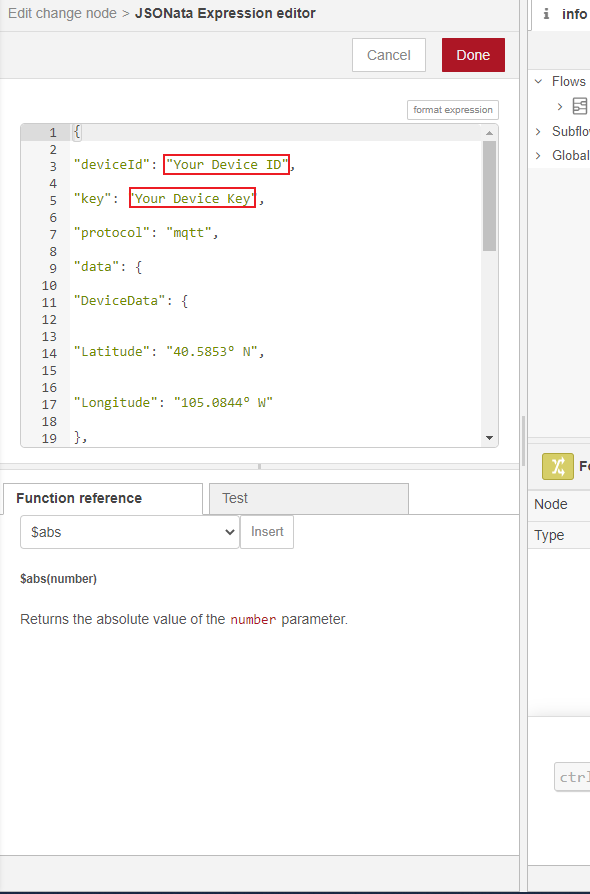
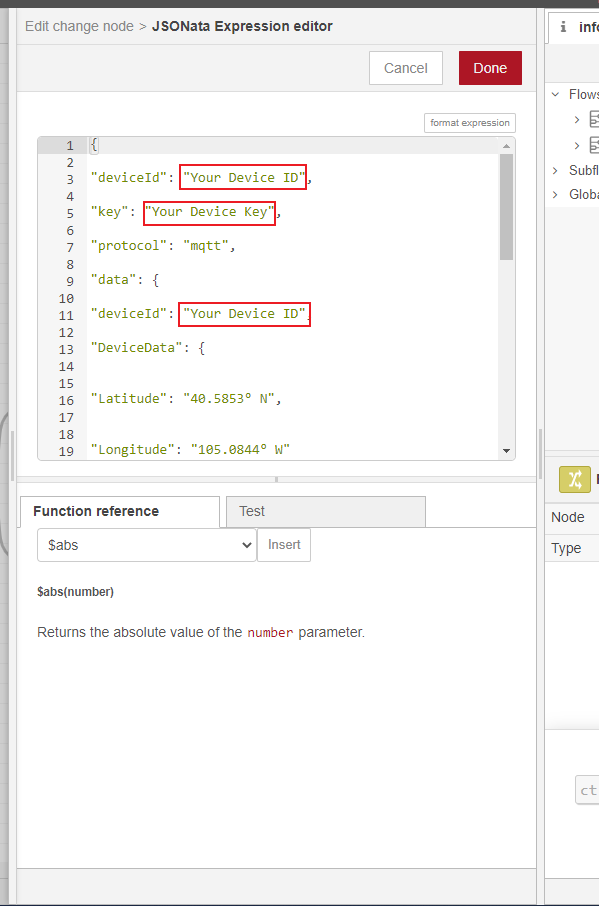
Final edits for node_red

Changed region(s): [[0.0, 0.0, 1.0, 1.0], [0.9458, 0.8456, 1.0, 0.906], [0.7017, 0.5436, 0.7322, 0.5738]]

diff --git a/blog/2021-01-21-connecting-raspberry-pi-and-dht11.md b/blog/2021-01-21-connecting-raspberry-pi-and-dht11.md
@@ -142,27 +142,33 @@ In the **Connected Devices** section, click the **Enroll New Device** button, pr
 
 Click on the <img src="../static/img/screenshots/icon-copy.png" class="text-image" /> button to copy your connection string to your clipboard. Your connection string should look something like this:
 
-> HostName=fathym-prd.azure-devices.net;DeviceId=**YourDeviceID**;SharedAccessKey=**YourDeviceKey**
+> HostName=**YourHostName**;DeviceId=**YourDeviceID**;SharedAccessKey=**YourDeviceKey**
 
-Within the connection string, there are two key parts that we need: The **DeviceID**, and the **SharedAccessKey**. Both of these values need to be a part of the data payload. Let's add them to the payload now.
+Within the connection string, there are three key parts that we need: The **HostName**, the **DeviceID**, and the **SharedAccessKey**. All of these values need to be a part of either the data payload, or as a config value. Let's add them now.
 
 ### Update Node Red
 
- Copy both the **YourDeviceID** and **YourDeviceKey** portions of your connection string (not including the "**DeviceId=**", "**SharedAccessKey=**", or the "**;**" at the end of DeviceID).  Go back to your Node-Red browser, and double click on the yellow **Format JSON** module, which will pull up a **Properties** screen, shown below.
+ Copy **YourHostName**, **YourDeviceID** and **YourDeviceKey** portions of your connection string (not including the "**Hostname=**", "**DeviceId=**", "**SharedAccessKey=**", or the "**;**" at the end of each value).  Go back to your Node-Red browser, and double click on the yellow **Format JSON** module, which will pull up a **Properties** screen, shown below.
 
 ![Format JSON Properties Updated](/img/screenshots/format_json_properties_screen.png)
-
-:::note
-
-**Note**: For this specific example, **DeviceID** has to be entered twice. This is because the Azure IoT Hub module requires the deviceID in order to build a connection string. The IoT Hub itself also requires a DeviceID in the data payload.
-
-:::
 
 Next, click on the three-dot menu screen (shown in the red box above). This will pull up an "Edit" screen, shown below:
 
 ![Replace ID and key](/img/screenshots/replace_id_and_key.png)
 
- From here, take the **YourDeviceID** and **YourDeviceKey** values from your connection string and paste them into the properties shown in the red boxes above. Click "Done".
+ From here, take the **YourDeviceID** and **YourDeviceKey** values from your connection string and paste them into the properties shown in the red boxes above. Click "Done", and then "Done" again to close the module properties screen.
+
+ :::note
+
+**Note**: For this specific example, **DeviceID** has to be entered twice. This is because the Azure IoT Hub module requires the deviceID in order to build a connection string. The IoT Hub itself also requires a DeviceID in the data payload.
+
+:::
+
+Next, double click on the **"Azure IoT Hub"** node module. This will open a **Properties** screen, shown below.
+
+![Update Hostname](/img/screenshots/update_hostname.png)
+
+Take your **HostName**, and paste it into the red box shown above. Click "Done", and then "Done" again to close the module properties screen.
 
 Once this is complete, click the red "Deploy" button in the top right corner. Your pi is now sending real time data to IoT Ensemble!
 
